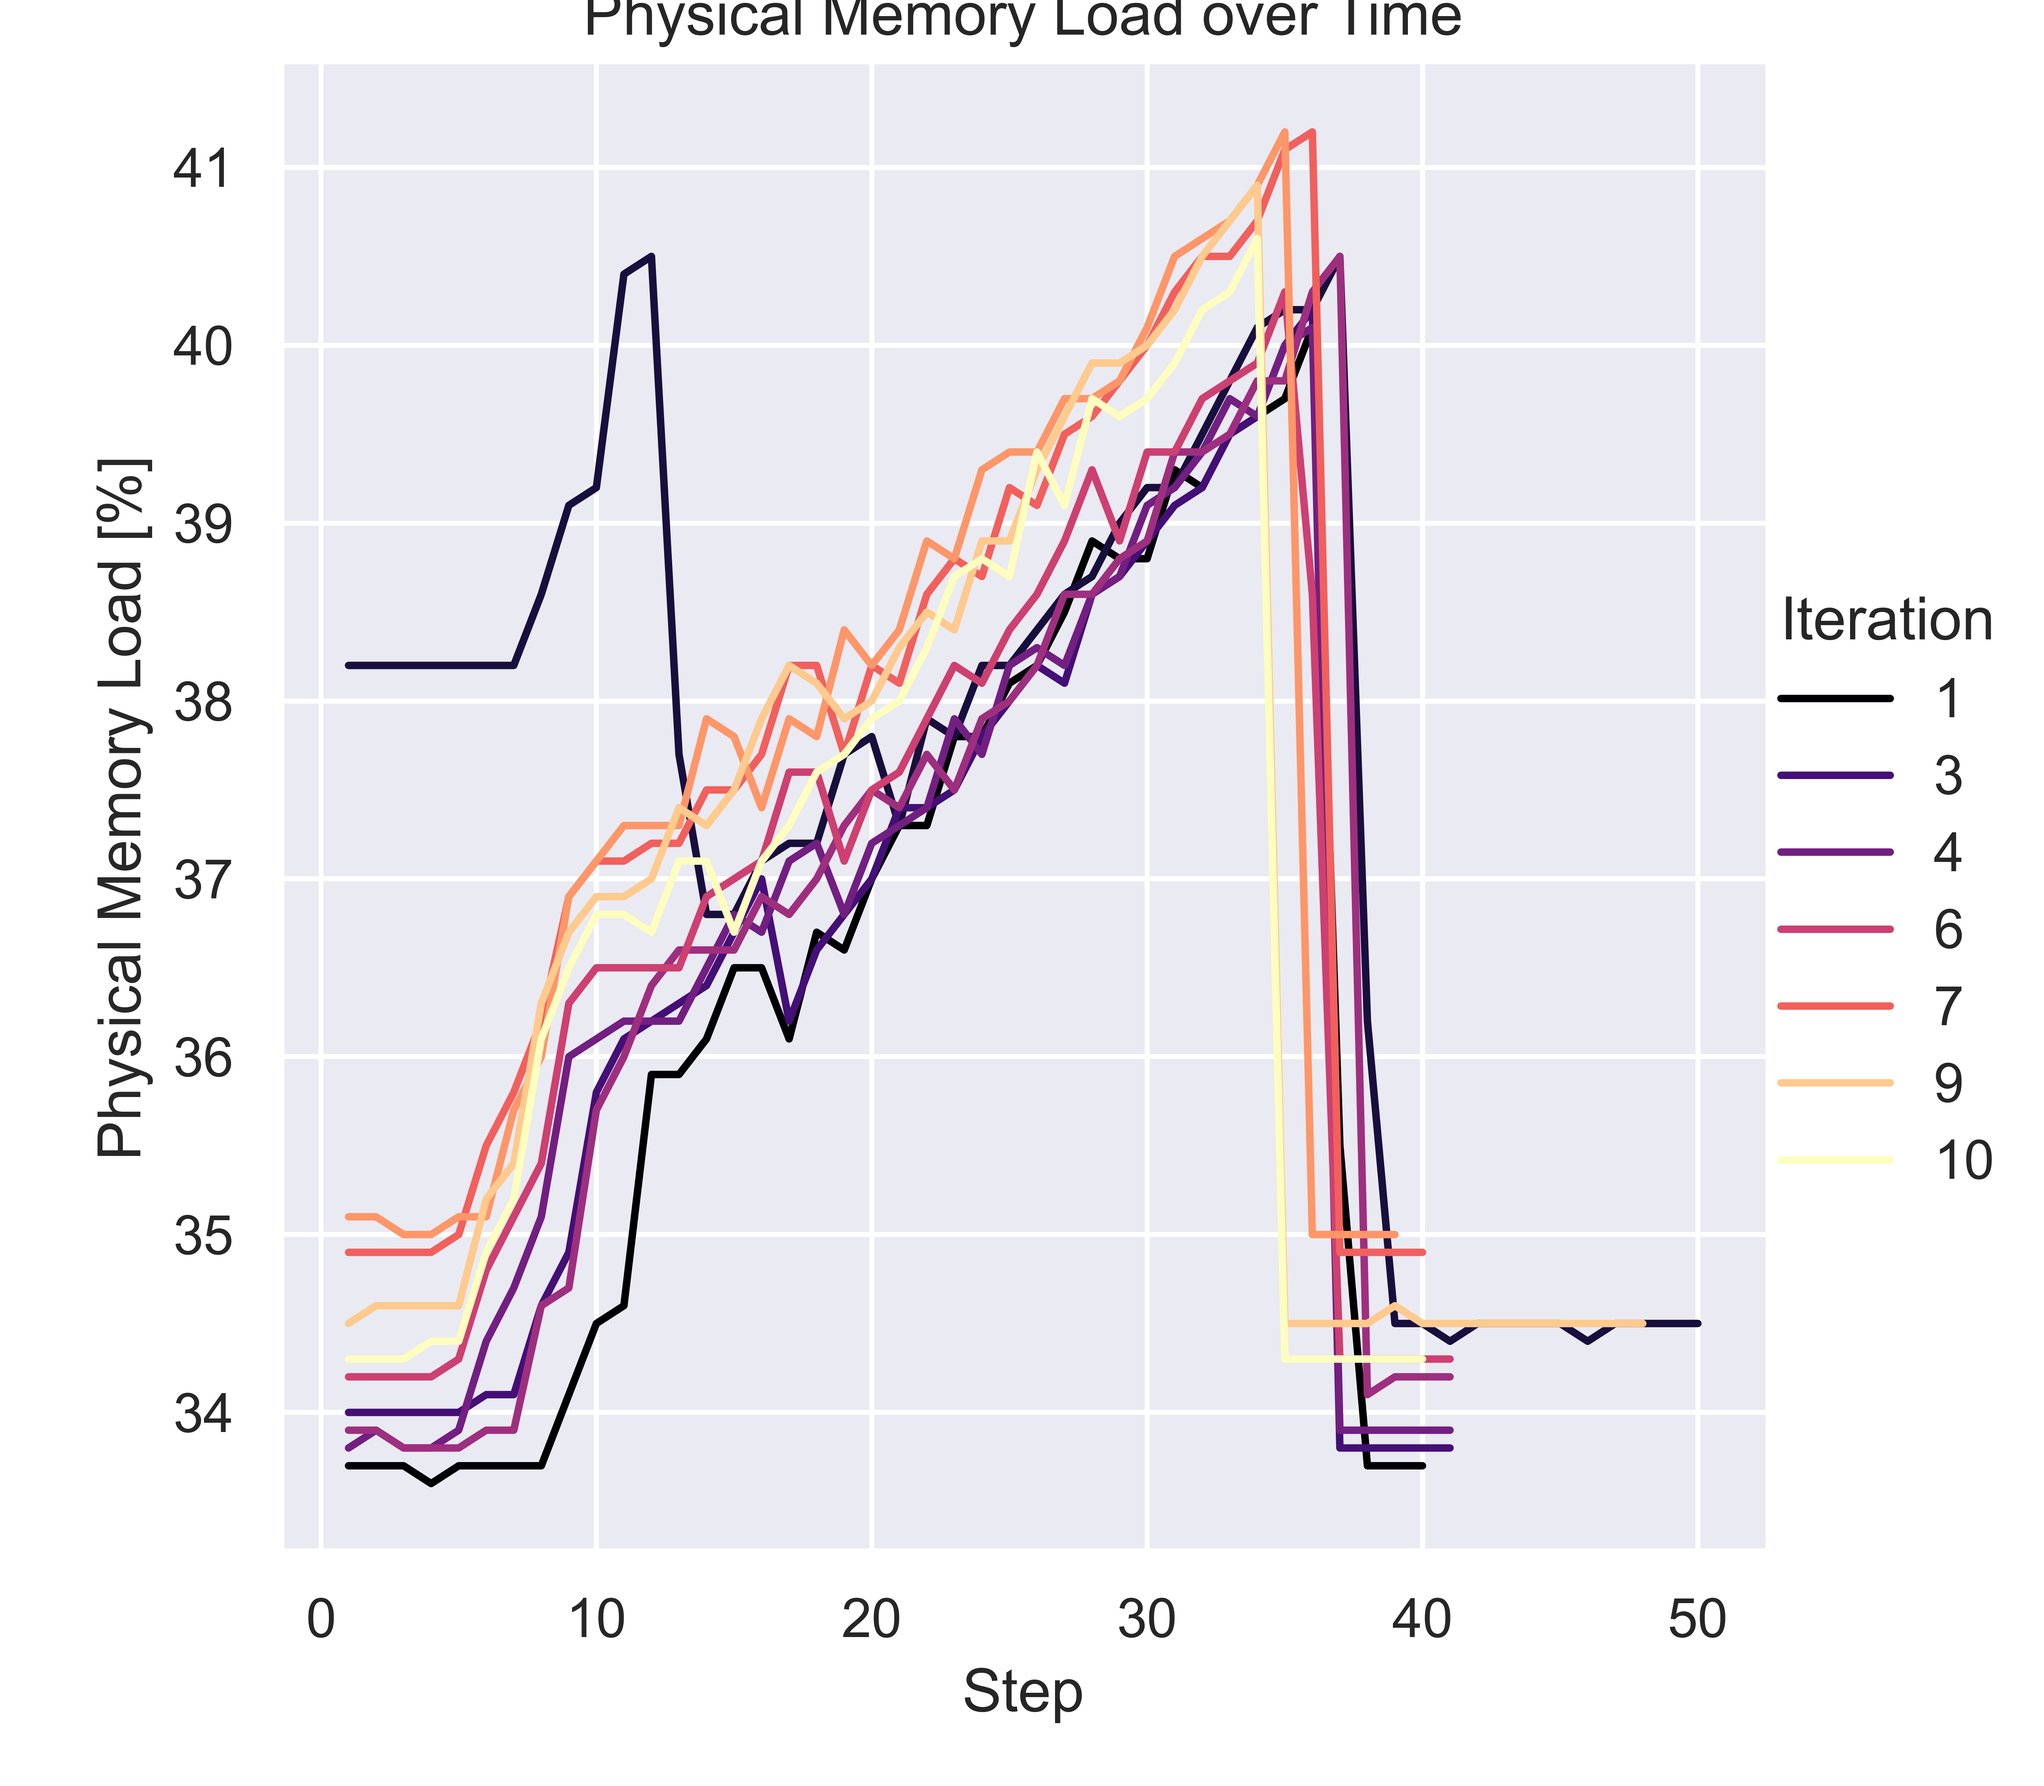
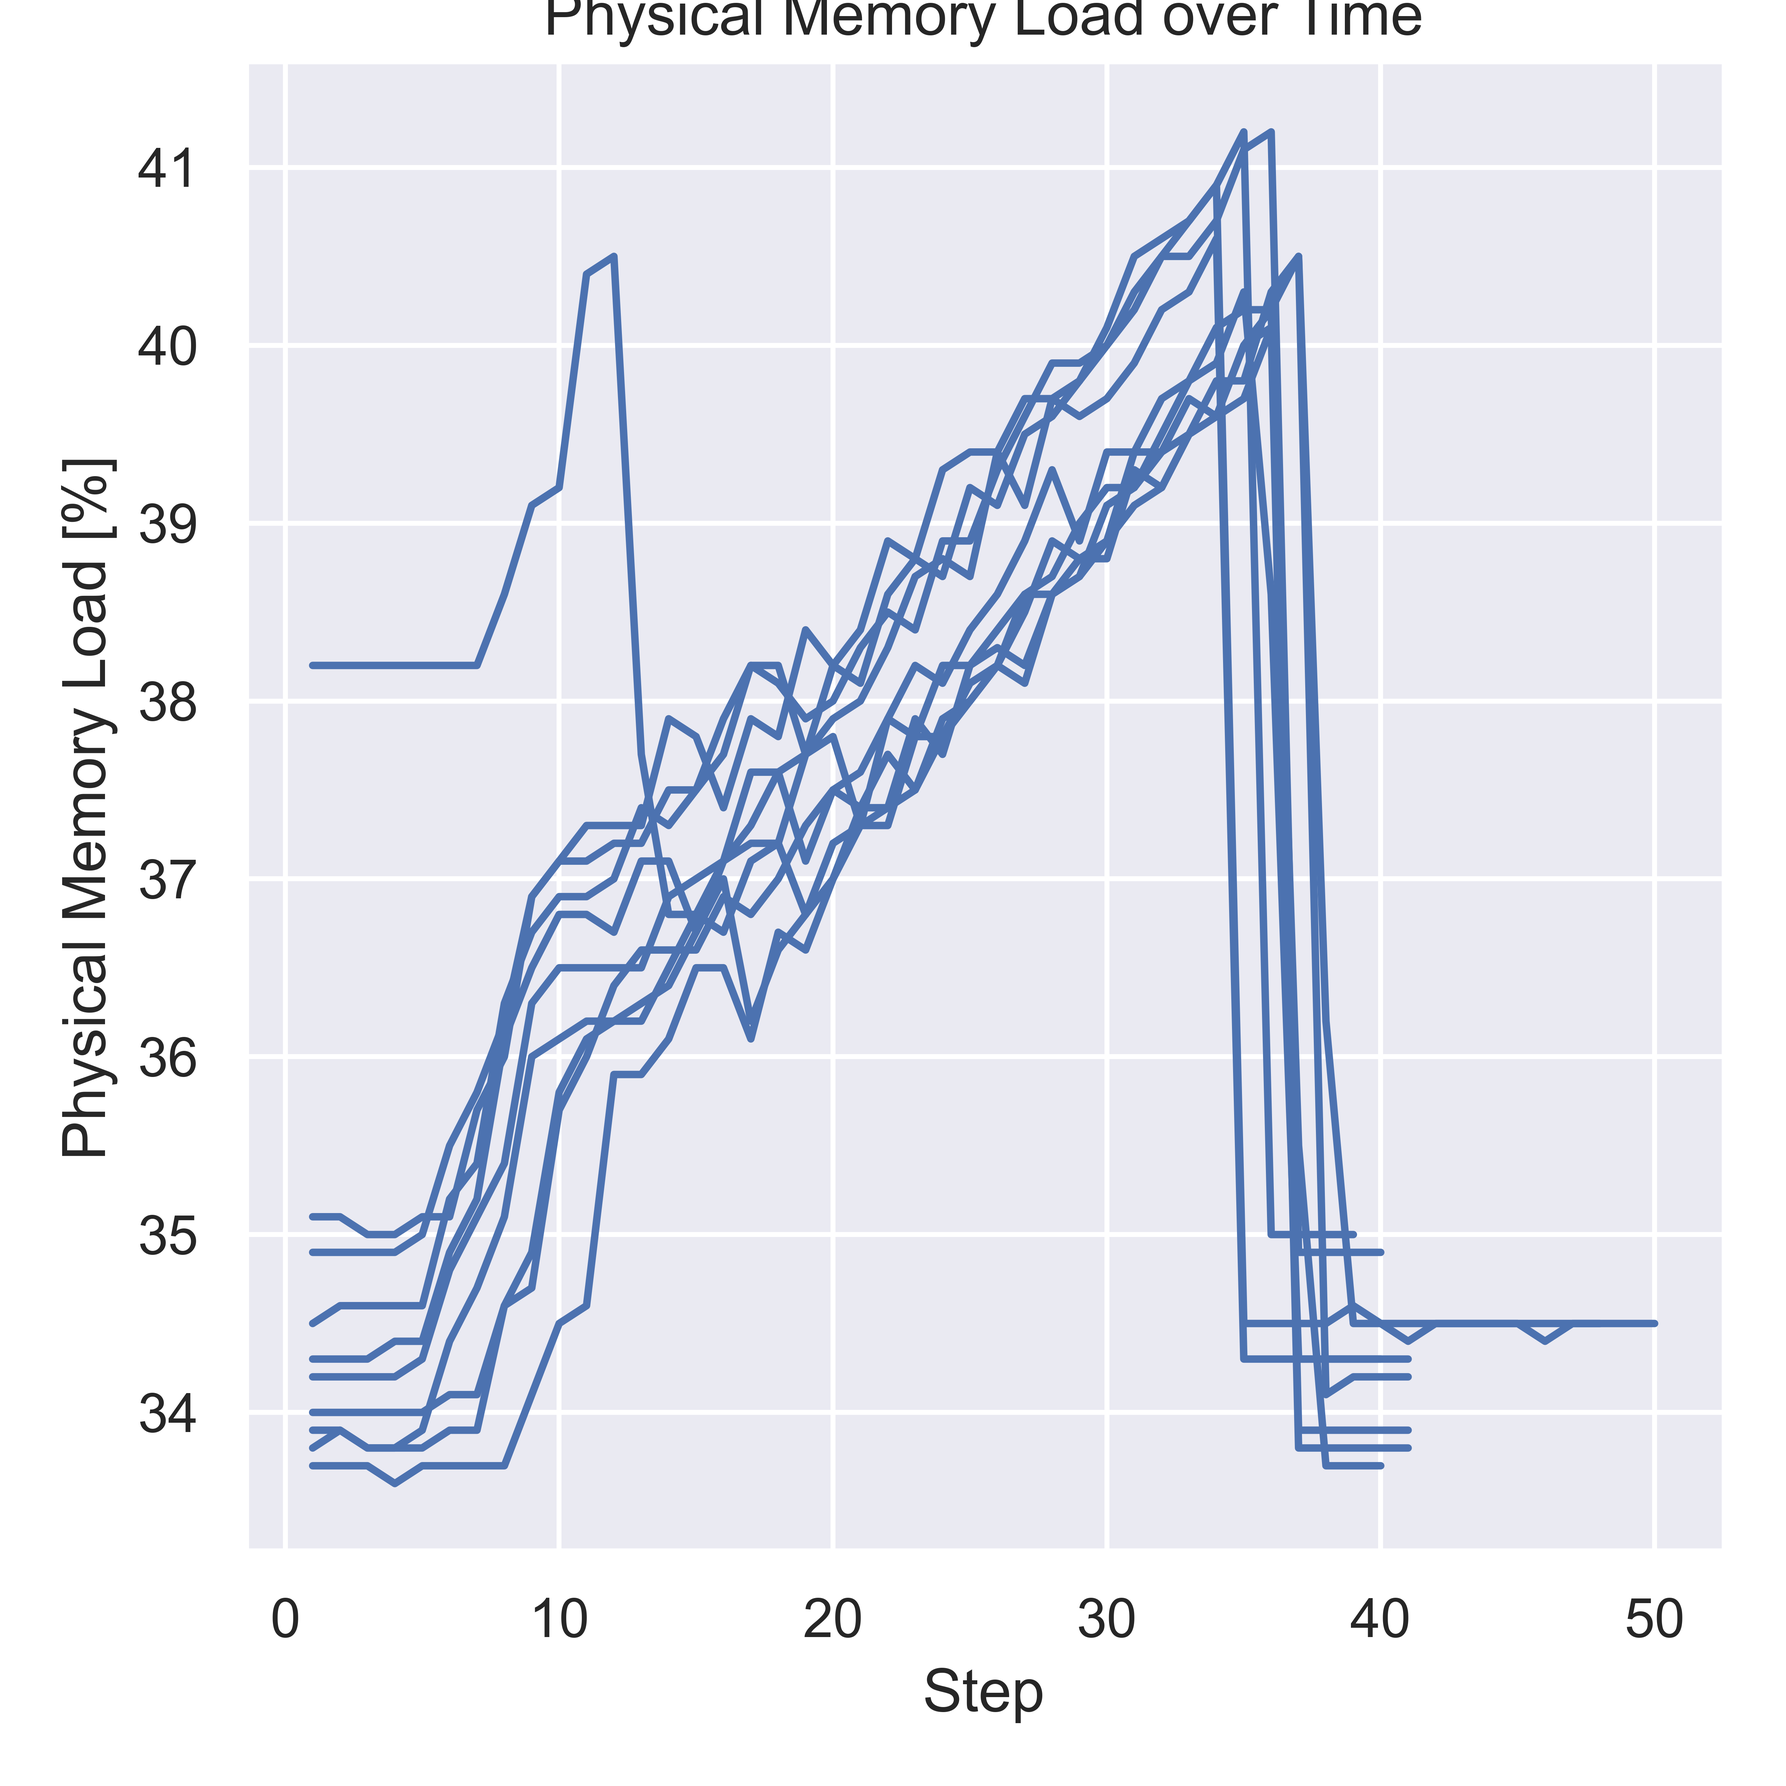
ploting done done

diff --git a/extract.py b/extract.py
@@ -37,11 +37,12 @@ class plotting_data:
         sns.relplot(
             data=self.table,
             x="Step", y=column_y,
-            palette="magma",
-            hue="Iteration",
-            markers=True,
-            dashes=False,
-            kind="line"
+            # palette="magma",
+            # hue="Iteration",
+            kind="line",
+            units="Iteration", estimator=None
+            # markers=True,
+            # dashes=False
         )
         plt.title(title)
         name = title + '_plot.png'
